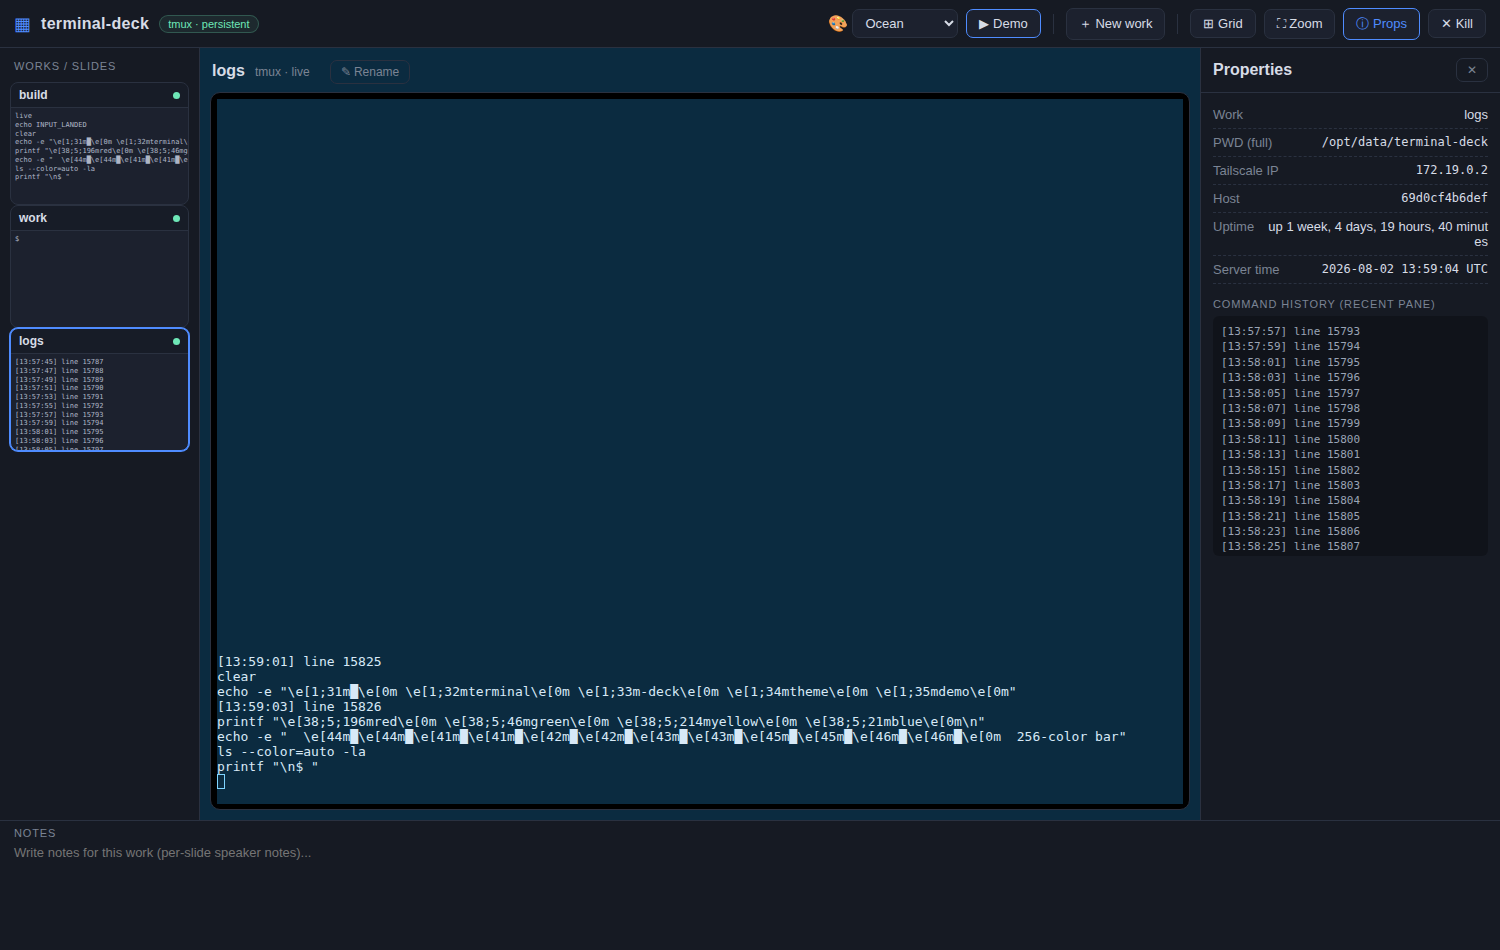
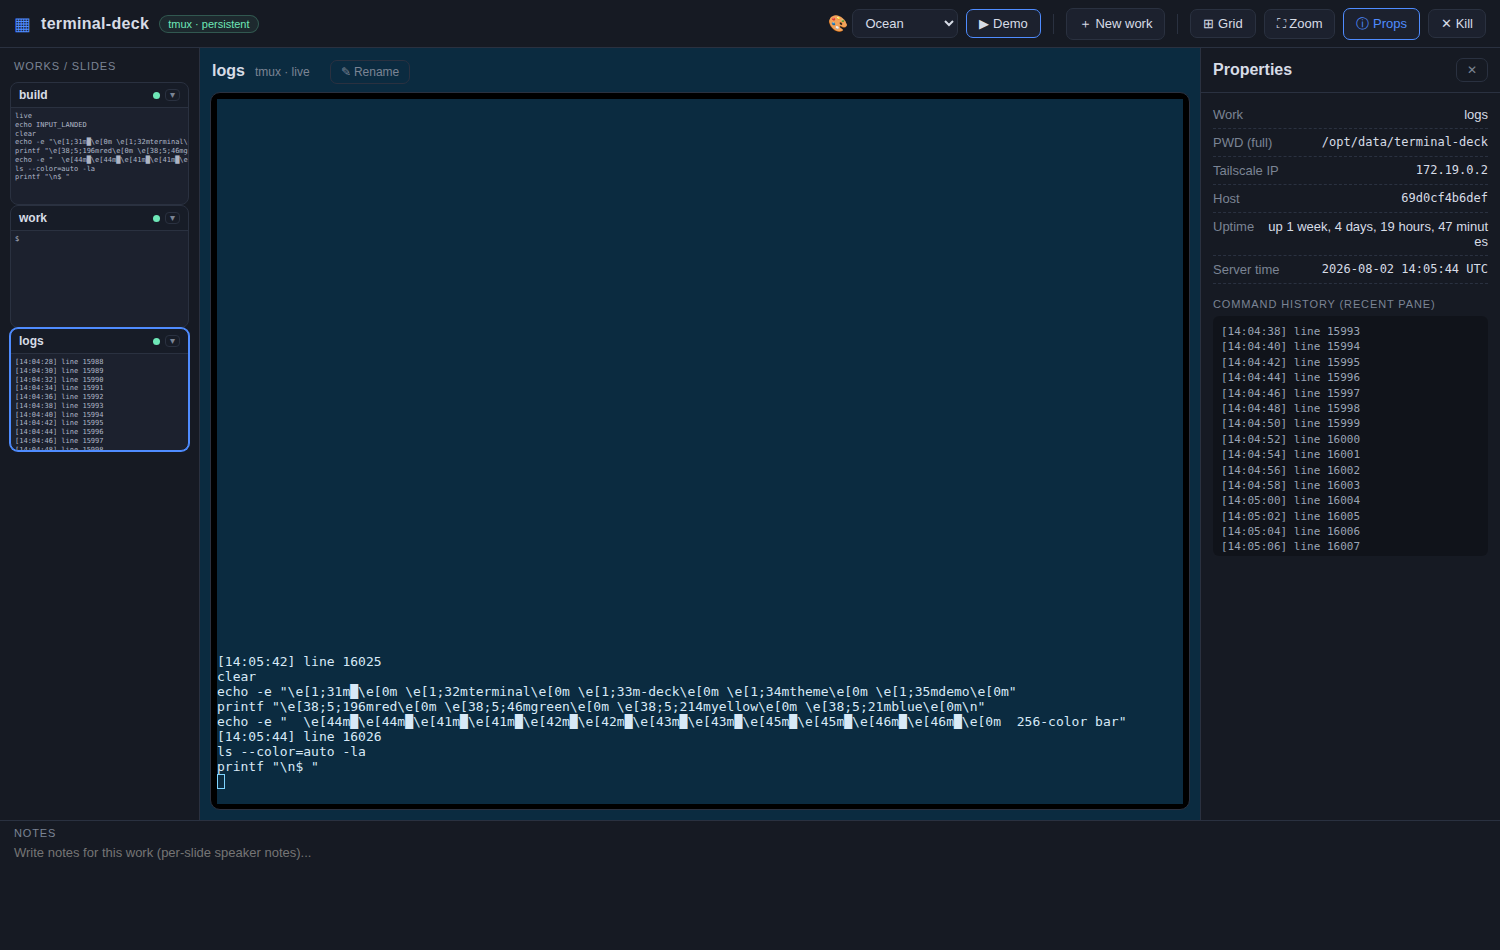
feat(ui): collapse small thumbnails to just the name
Each left-sorter card gets a ▾/▸ collapse button that hides the live preview,
leaving a compact name-only row. Collapsed cards stop polling snapshots (saves
bandwidth), and clicking the collapse control doesn't steal focus from the main
stage. Adds card-collapse button + .collapsed CSS.

diff --git a/public/app.js b/public/app.js
@@ -183,12 +183,25 @@ function addCard(name) {
   el.dataset.name = name;
   el.innerHTML = `
     <div class="card-head"><span class="card-name"></span>
-      <span class="dots"><span class="dot live"></span></span></div>
+      <span class="card-controls"><span class="dot live"></span>
+        <button class="card-collapse" title="Collapse / expand preview">▾</button></span></div>
     <div class="card-preview"></div>`;
   el.querySelector('.card-name').textContent = name;
-  el.addEventListener('click', () => setActive(name));
+  el.addEventListener('click', (e) => {
+    // don't focus when clicking the collapse control
+    if (e.target.closest('.card-collapse')) return;
+    setActive(name);
+  });
+  const collapseBtn = el.querySelector('.card-collapse');
+  const preview = el.querySelector('.card-preview');
+  collapseBtn.addEventListener('click', (e) => {
+    e.stopPropagation();
+    const collapsed = el.classList.toggle('collapsed');
+    collapseBtn.textContent = collapsed ? '▸' : '▾';
+    collapseBtn.title = collapsed ? 'Expand preview' : 'Collapse preview';
+  });
   $cards.appendChild(el);
-  const card = { el, preview: el.querySelector('.card-preview'), dot: el.querySelector('.dot') };
+  const card = { el, preview, dot: el.querySelector('.dot'), collapseBtn };
   cardsEl.set(name, card);
   // start live snapshot loop for this session
   pollSnapshot(name);
@@ -207,7 +220,9 @@ function sanitizeSnap(s) {
 
 async function pollSnapshot(name) {
   const loop = async () => {
-    if (!cardsEl.has(name)) return; // card removed -> stop
+    const card = cardsEl.get(name);
+    if (!card) return; // card removed -> stop
+    if (card.el.classList.contains('collapsed')) { setTimeout(loop, SNAP_INTERVAL); return; } // preview hidden -> skip
     send({ t: 'snapshot', session: name });
     setTimeout(loop, SNAP_INTERVAL);
   };

diff --git a/public/style.css b/public/style.css
@@ -138,6 +138,16 @@ button.active { border-color: var(--accent); color: var(--accent); }
 .card-head .dots { display: flex; gap: 3px; }
 .card-head .dot { width: 7px; height: 7px; border-radius: 50%; background: #3a4152; }
 .dot.live { background: var(--accent-2); }
+.card-controls { display: flex; align-items: center; gap: 5px; }
+.card-collapse {
+  background: transparent; border: 1px solid var(--border); color: var(--muted);
+  border-radius: 4px; padding: 0 4px; font-size: 10px; line-height: 1; cursor: pointer;
+}
+.card-collapse:hover { color: var(--text); border-color: var(--accent); }
+/* collapsed: preview hidden, card becomes just the name row */
+.card.collapsed .card-preview { display: none; }
+.card.collapsed { cursor: default; }
+.card.collapsed .card-head { border-bottom: none; }
 .card-preview {
   height: 96px; padding: 4px; overflow: hidden;
   font-family: ui-monospace, SFMono-Regular, Menlo, monospace;
